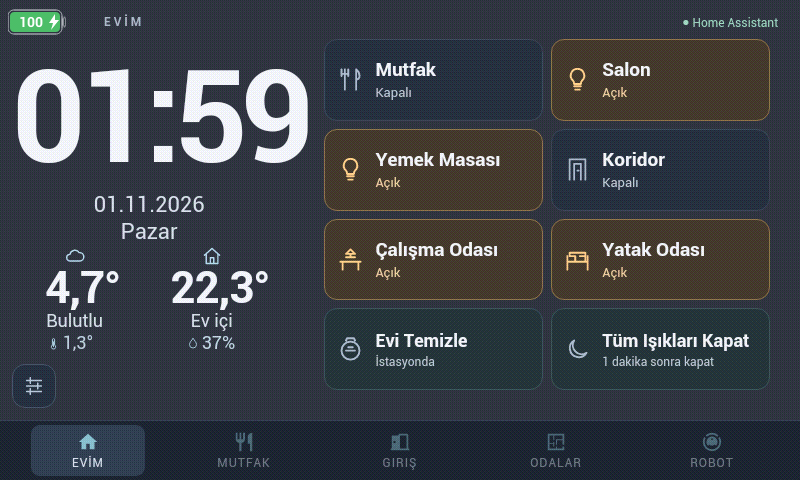
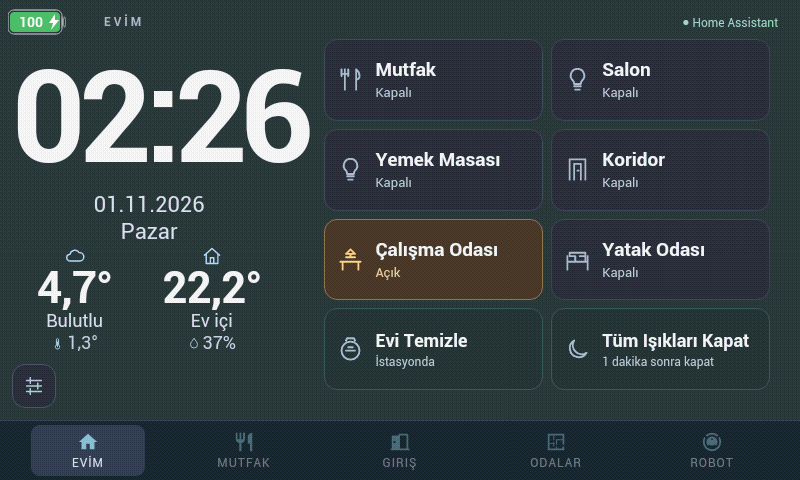
Align complete weather readings to the actual weather and house symbols

diff --git a/examples/panel-v2/panel.js b/examples/panel-v2/panel.js
@@ -76,7 +76,7 @@
     function icon(name) { return '<svg aria-hidden="true" viewBox="0 0 24 24" fill="none" stroke="currentColor" stroke-width="1.7" stroke-linecap="round" stroke-linejoin="round"><path d="'+(paths[name] || paths.bulb)+'"/></svg>'; }
     function node(tag, className, text) { var n = document.createElement(tag); if (className) { n.className = className; } if (text !== undefined) { n.textContent = text; } return n; }
     function setText(n, text) { if (n.textContent !== String(text)) { n.textContent = text; } }
-    // Center the numeric content; the unit has zero layout width to its right.
+    // Keep signs, symbols and units together so the visible reading centers as one.
     function setQuantity(el,value,unit,leadingIcon){
       var number=el.querySelector('.pv2-number'),suffix=el.querySelector('.pv2-unit'),quantity=number?number.parentNode:null;
       if(!number){el.textContent='';quantity=node('span','pv2-quantity');number=node('span','pv2-number');suffix=node('span','pv2-unit');quantity.appendChild(number);quantity.appendChild(suffix);el.appendChild(quantity);}
@@ -199,7 +199,7 @@
         weatherMain.appendChild(outside);weatherMain.appendChild(inside);
       }else{weatherMain.appendChild(weatherIcon);weatherMain.appendChild(temperature);}
       weather.appendChild(weatherMain);if(!cfg.indoorTemperature){weather.appendChild(condition);}
-      if(cfg.outdoorFeelsLike){overview.classList.add('pv2-overview-with-feels');weather.classList.add('pv2-with-feels');var feels=node('div','pv2-feels-like');var feelsIcon=node('span','pv2-feels-icon');feelsIcon.innerHTML=icon('thermometer');feels.appendChild(feelsIcon);feelsValue=node('span','pv2-feels-value','—');feels.appendChild(feelsValue);feels.title='Dışarı hissedilen sıcaklık · Open-Meteo';if(cfg.indoorTemperature){outside.appendChild(feels);}else{weather.appendChild(feels);}}
+      if(cfg.outdoorFeelsLike){overview.classList.add('pv2-overview-with-feels');weather.classList.add('pv2-with-feels');var feels=node('div','pv2-feels-like');var feelsIcon=node('span','pv2-feels-icon');feelsIcon.innerHTML=icon('thermometer');feels.appendChild(feelsIcon);feelsValue=node('span','pv2-feels-value','—');feels.appendChild(feelsValue);feels.title='Dışarı hissedilen sıcaklık · Open-Meteo';if(cfg.indoorTemperature){outside.appendChild(feels);if(humidityValue){var indoorSecondary=node('div','pv2-indoor-secondary');indoorSecondary.appendChild(humidityValue.parentNode);inside.appendChild(indoorSecondary);}}else{weather.appendChild(feels);}}
       overview.appendChild(weather);
       var meeting=node('div','pv2-meeting');meeting.innerHTML='<span class="pv2-meeting-dot"></span>Toplantı';overview.appendChild(meeting);
       var trigger=node('button','pv2-settings-trigger');trigger.type='button';trigger.innerHTML=icon('settings');trigger.setAttribute('aria-label','Panel Ayarları');trigger.title='Panel Ayarları';trigger.addEventListener('click',function(){openPanelSettings();},false);overview.appendChild(trigger);

diff --git a/examples/panel-v2/panel.css b/examples/panel-v2/panel.css
@@ -162,8 +162,8 @@ body.panel-v2 { background:#171d27; color:#f2f4f8; font-family:Arial,sans-serif;
 .pv2-feels-value { font-size:18px; font-variant-numeric:tabular-nums; }
 
 .pv2-weather-pair.pv2-with-feels .pv2-temperature { line-height:44px; }
-.pv2-with-feels .pv2-weather-reading-icon { height:20px; }
-.pv2-with-feels .pv2-weather-reading-icon svg { width:20px; height:20px; }
+.pv2-with-feels .pv2-weather-reading-icon { display:-webkit-flex; display:flex; -webkit-align-items:center; align-items:center; -webkit-justify-content:center; justify-content:center; height:20px; }
+.pv2-with-feels .pv2-weather-reading-icon svg { width:20px; height:20px; margin:0; }
 
 .pv2-feels-icon { display:-webkit-flex; display:flex; -webkit-align-items:center; align-items:center; }
 .pv2-with-feels .pv2-feels-like svg { width:13px; height:13px; margin:0 3px 0 0; }
@@ -173,11 +173,16 @@ body.panel-v2 { background:#171d27; color:#f2f4f8; font-family:Arial,sans-serif;
 .pv2-with-feels .pv2-indoor-caption-label { margin:0; font-size:18px; line-height:22px; }
 .pv2-with-feels .pv2-indoor-humidity { font-size:18px; line-height:22px; }
 
-/* Units remain visible without shifting the visual center of numeric readings. */
-.pv2-quantity { position:relative; display:inline-block; white-space:nowrap; }
-.pv2-unit { position:absolute; left:100%; top:0; line-height:inherit; }
+/* Center each complete visible reading beneath the weather/house symbol. */
+.pv2-quantity { display:-webkit-inline-flex; display:inline-flex; -webkit-align-items:baseline; align-items:baseline; white-space:nowrap; }
+.pv2-unit { position:static; line-height:inherit; }
 
 body.panel-v2:not(.panel-v2-office) .pv2-overview-with-feels .pv2-settings-trigger { bottom:-18px; }
 
-/* Leading symbols are also excluded: all signed numbers share the column center. */
-.pv2-quantity-icon { position:absolute; right:100%; top:0; bottom:0; display:-webkit-flex; display:flex; -webkit-align-items:center; align-items:center; }
+/* Symbols remain part of the visible centered group, regardless of sign. */
+.pv2-quantity-icon { position:static; display:-webkit-flex; display:flex; -webkit-align-items:center; align-items:center; -webkit-align-self:center; align-self:center; }
+
+/* Identical centered row stacks for the outside and indoor readings. */
+.pv2-with-feels .pv2-weather-reading { display:-webkit-flex; display:flex; -webkit-flex-direction:column; flex-direction:column; -webkit-align-items:center; align-items:center; }
+.pv2-with-feels .pv2-weather-reading > .pv2-temperature,.pv2-with-feels .pv2-weather-reading > .pv2-condition,.pv2-indoor-secondary,.pv2-with-feels .pv2-weather-reading-icon { width:100%; text-align:center; }
+.pv2-indoor-secondary { display:-webkit-flex; display:flex; -webkit-align-items:center; align-items:center; -webkit-justify-content:center; justify-content:center; }

diff --git a/examples/panel-v2/office.css b/examples/panel-v2/office.css
@@ -236,7 +236,7 @@
 .panel-v2-office .pv2-with-feels .pv2-temperature { line-height:28px; }
 .panel-v2-office .pv2-with-feels .pv2-condition { line-height:16px; }
 .panel-v2-office .pv2-with-feels .pv2-weather-reading-icon { height:16px; }
-.panel-v2-office .pv2-with-feels .pv2-weather-reading-icon svg { width:16px; height:16px; }
+.panel-v2-office .pv2-with-feels .pv2-weather-reading-icon svg { width:16px; height:16px; margin:0; }
 .panel-v2-office .pv2-with-feels .pv2-feels-like svg { width:10px; height:10px; margin:0 3px 0 0; }
 
 .panel-v2-office .pv2-with-feels .pv2-indoor-caption-label { margin:0; font-size:14px; line-height:16px; }

diff --git a/docs/three-day-agenda-review.md b/docs/three-day-agenda-review.md
@@ -60,7 +60,7 @@ PENDING; configuration inspection is not a reboot test.
 | ID | Denver | Samsung | Evidence / outstanding work |
 | --- | --- | --- | --- |
 | D01 | PENDING | PENDING | No cold boot performed; batteryless Samsung must not be rebooted casually. |
-| D02 | PENDING | PASS | Samsung native dim occurs 30 seconds after last motion; user confirmed dark and first-day reset after the helper test. Denver physical timeout not repeated. |
+| D02 | PENDING | PENDING | Earlier Build 13 dim/reset cycle passed. Physical timeout must be repeated on current native Build 14; Denver timeout not repeated. |
 | D03 | PENDING | PENDING | Samsung single dark/reset cycle confirmed; normal existing helper restarted. Complete stable/no-flicker observation on final installed state remains pending. |
 | D04 | PENDING | PENDING | Three physical wake cycles and dim-room observation outstanding. |
 | D05 | PENDING | PENDING | Two-minute dark-scene and false-wake test outstanding. |
@@ -72,7 +72,7 @@ PENDING; configuration inspection is not a reboot test.
 | D11 | PENDING | PENDING | No root-helper stop/recovery or duplicate-process test. |
 | D12 | PENDING | PENDING | Wi-Fi ADB reachable; reboot persistence not retested. |
 | D13 | PENDING | PENDING | No new uninterrupted 30-minute/overnight acceptance run; final Samsung hold survived. |
-| D14 | N/A | PASS | Samsung Build 13 retained all user preference values; only launch URL version and internal Chromium resource version changed. Denver APK unchanged. |
+| D14 | N/A | PASS | Samsung Build 14 retained all user preference values; only launch URL version and internal Chromium resource version changed. Denver APK unchanged. |
 | U01 | PASS | N/A | Denver remains byte-identical to its prior deployed web version. |
 | U02 | PASS | PASS | Native office captures show Turkish clock/date/weather and live indoor readings; Denver unchanged. |
 | U03 | PASS | PASS | Actual Samsung Home shows three fitting day tabs and two meeting rows. Denver unchanged. |
@@ -143,3 +143,32 @@ for both served profiles. These checks do not replace pending power/camera check
[3 lines of base64/hex data omitted]
+
+## Follow-up: cloud-axis alignment and startup orientation
+
+Current Samsung APK is Build 14; the landscape/startup-diagnostic changes are
+recorded in the Android repository's Samsung orientation guide. Real phone reboot
+acceptance remains PENDING; two application restarts were landscape.
+
+The latest weather layout uses the actual primary SVG center as its reference.
+An inherited 7 px right SVG margin caused a 3.5 px displacement in the Samsung
+preview independent of temperature sign. That margin is now zero, and each
+complete visible reading (leading symbol, signed number, unit) is centered as
+one group. This supersedes the numeric-only center approach described earlier
+in this review. Positive, negative and zero fixtures were compared against the
+SVG itself, rather than only the containing column. No sign-dependent offset
+is applied. Both served profiles and physical-device captures are verified
+after deployment. The complete general-feature gate above remains PENDING.
+
+The indoor secondary row is now a direct centered sibling of its caption,
+matching the outside stack rather than nesting caption and humidity differently.
+Final SVG-relative measurements for +4.7, −4.7 and zero were 0 px outside and
+less than 0.01 px inside for both primary and secondary complete readings;
+caption text also matched the axis. Native captures on both devices were
+updated. This is scoped visual evidence; reboot, wake, power and household
+actuation PENDING rows above remain PENDING.
+
+Latest cloud-axis deployed assets (superseding the earlier hashes):
[3 lines of base64/hex data omitted]

diff --git a/docs/outdoor-feels-like.md b/docs/outdoor-feels-like.md
@@ -27,10 +27,10 @@ apparent temperature; inside has a droplet and relative humidity. There is no
 visible “Hissedilen” label; the accessible name and tooltip retain that meaning.
 The compact style applies only when the secondary outside sensor is configured.
 Apparent temperature and humidity use matching 18 px Denver / 16 px Samsung
-fonts. The numeric body is centered independently of the degree/percent suffix;
-the suffix remains visible and accessible. Leading thermometer/droplet icons
-also sit outside numeric layout width, so main and secondary numbers share the
-same center.
+fonts. Each complete visible reading, including its sign, unit and leading symbol,
+is centered under the weather/house symbol. Primary symbols have zero side
+margin; the previous inherited 7 px right margin displaced their visual axis.
+There are no positive/negative-specific offsets or invisible sign placeholders.
 
 Negative values and zero are valid for both temperature readings. Missing,
 unavailable, nonnumeric, disconnected or stale apparent data displays `—`, never

diff --git a/AGENTS.md b/AGENTS.md
@@ -26,7 +26,9 @@ optical text/icon alignment, selected and unselected states, and adjacent cards.
 Verify on the installed device at its actual viewport before claiming visual
 acceptance. Missing screenshots or physical checks remain PENDING.
 
-For weather quantities, center the signed numeric body independently of its
-degree/percent suffix. Keep unit glyphs visible and preserve accessible meaning.
+For weather columns, use the weather/house symbol center as the vertical axis.
+Center each complete visible reading (sign, number, unit and any leading icon)
+on that axis. Do not add sign-specific offsets or hidden minus placeholders.
+Keep unit glyphs visible and preserve accessible meaning.
 Indoor/outdoor columns must retain matching row counts, baselines and secondary
 reading sizes in both profiles.
